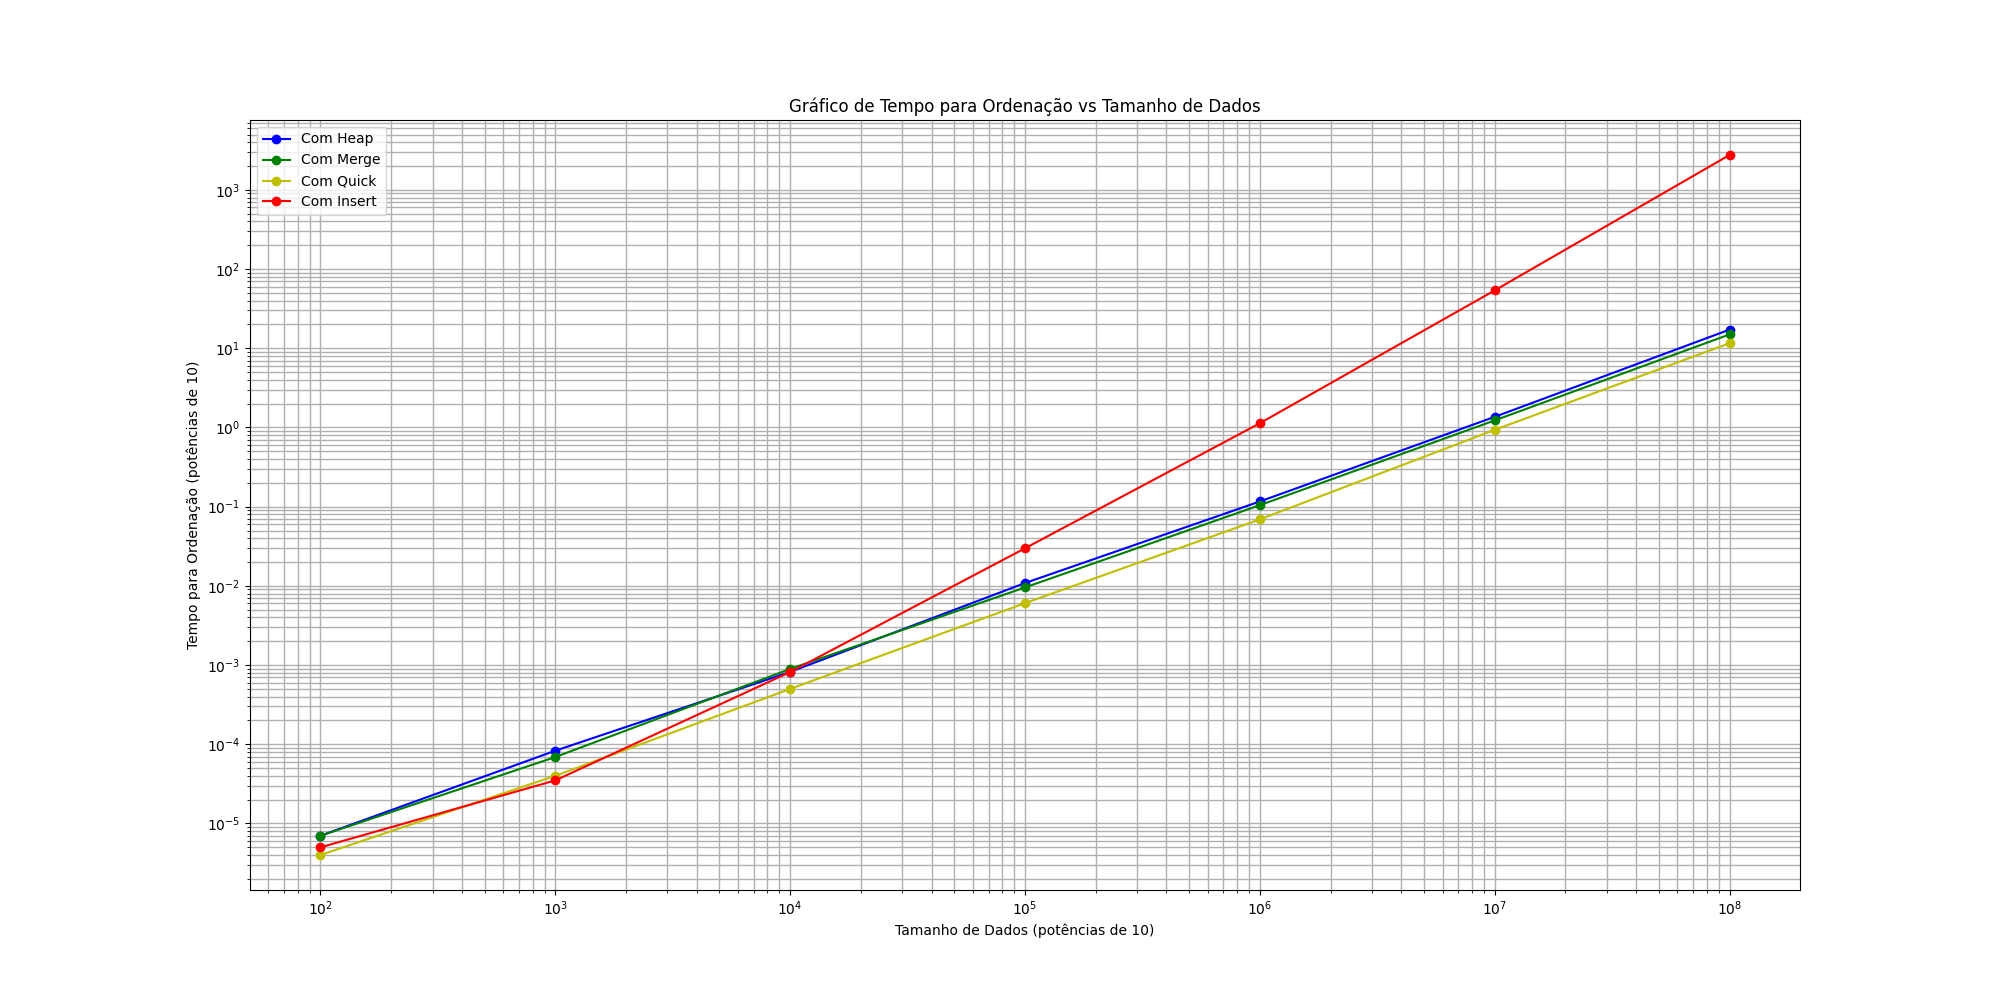
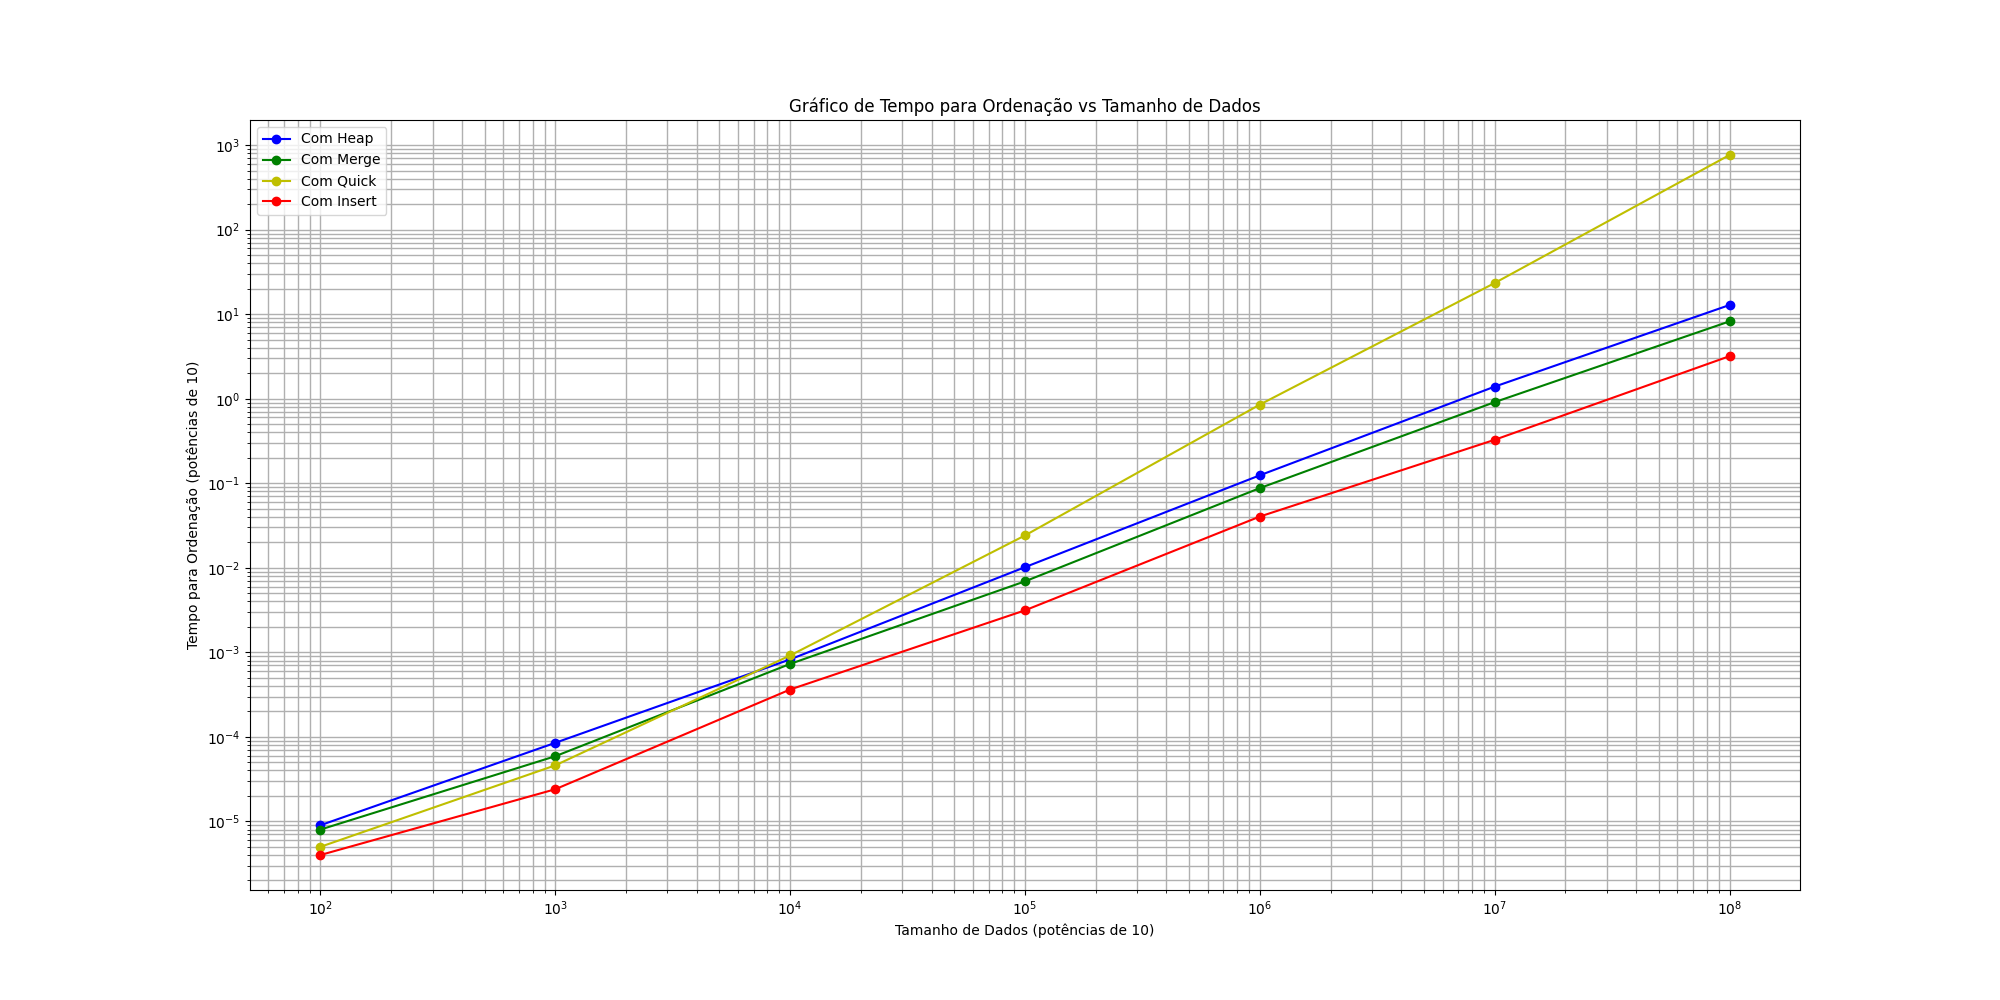
add ultimo antes de enviar

Changed region(s): [[0.093, 0.124, 0.899, 0.868]]

diff --git a/bucketMerge.c b/bucketMerge.c
@@ -3,62 +3,6 @@
 #include <math.h>
 #include "bucket.h"
 
-void merge_sort(int arr[], int left, int right);
-void merge(int arr[], int left, int mid, int right);
-
-void BucketSortMerge(int arr[], int n, int n_bucket, int interval) {
-    int** buckets = (int**)malloc(n_bucket * sizeof(int*));
-    int* bucket_sizes = (int*)malloc(n_bucket * sizeof(int));
-
-    int i, j;
-
-    for (i = 0; i < n_bucket; i++) {
-        buckets[i] = (int*)malloc(n * sizeof(int));
-        bucket_sizes[i] = 0;
-    }
-
-    /* Distribui os elementos nos baldes */
-    for (i = 0; i < n; i++) {
-        int pos = arr[i] / interval;
-        if (pos >= n_bucket) {
-            pos = n_bucket - 1;
-        }
-        buckets[pos][bucket_sizes[pos]] = arr[i];
-        bucket_sizes[pos]++;
-    }
-
-    /* Ordena cada balde usando Merge Sort */
-    for (i = 0; i < n_bucket; i++) {
-        if (bucket_sizes[i] > 1) {
-            merge_sort(buckets[i], 0, bucket_sizes[i] - 1);
-        }
-    }
-
-    /* Junta os baldes de volta no array original */
-    int k = 0;
-    for (i = 0; i < n_bucket; i++) {
-        for (j = 0; j < bucket_sizes[i]; j++) {
-            arr[k++] = buckets[i][j];
-        }
-        free(buckets[i]);
-    }
-
-    free(buckets);
-    free(bucket_sizes);
-}
-
-/* Implementação do Merge Sort */
-void merge_sort(int arr[], int left, int right) {
-    if (left < right) {
-        int mid = left + (right - left) / 2;
-
-        merge_sort(arr, left, mid);
-        merge_sort(arr, mid + 1, right);
-        merge(arr, left, mid, right);
-    }
-}
-
-/* Função de mesclagem para o Merge Sort */
 void merge(int arr[], int left, int mid, int right) {
     int n1 = mid - left + 1;
     int n2 = right - mid;
@@ -68,7 +12,6 @@ void merge(int arr[], int left, int mid, int right) {
 
     int i, j, k;
 
-    /* Copia os elementos para os arrays temporários L e R */
     for (i = 0; i < n1; i++) {
         L[i] = arr[left + i];
     }
@@ -76,7 +19,6 @@ void merge(int arr[], int left, int mid, int right) {
         R[j] = arr[mid + 1 + j];
     }
 
-    /* Mescla os arrays temporários de volta no array original */
     i = 0;
     j = 0;
     k = left;
@@ -91,14 +33,12 @@ void merge(int arr[], int left, int mid, int right) {
         k++;
     }
 
-    /* Copia os elementos restantes de L, se houver */
     while (i < n1) {
         arr[k] = L[i];
         i++;
         k++;
     }
 
-    /* Copia os elementos restantes de R, se houver */
     while (j < n2) {
         arr[k] = R[j];
         j++;
@@ -109,3 +49,50 @@ void merge(int arr[], int left, int mid, int right) {
     free(R);
 }
 
+void merge_sort(int arr[], int left, int right) {
+    if (left < right) {
+        int mid = left + (right - left) / 2;
+
+        merge_sort(arr, left, mid);
+        merge_sort(arr, mid + 1, right);
+        merge(arr, left, mid, right);
+    }
+}
+
+void BucketSortMerge(int arr[], int n, int n_bucket, int interval) {
+    int** buckets = (int**)malloc(n_bucket * sizeof(int*));
+    int* bucket_sizes = (int*)malloc(n_bucket * sizeof(int));
+
+    int i, j;
+
+    for (i = 0; i < n_bucket; i++) {
+        buckets[i] = (int*)malloc(n * sizeof(int));
+        bucket_sizes[i] = 0;
+    }
+
+    for (i = 0; i < n; i++) {
+        int pos = arr[i] / interval;
+        if (pos >= n_bucket) {
+            pos = n_bucket - 1;
+        }
+        buckets[pos][bucket_sizes[pos]] = arr[i];
+        bucket_sizes[pos]++;
+    }
+
+    for (i = 0; i < n_bucket; i++) {
+        if (bucket_sizes[i] > 1) {
+            merge_sort(buckets[i], 0, bucket_sizes[i] - 1);
+        }
+    }
+
+    int k = 0;
+    for (i = 0; i < n_bucket; i++) {
+        for (j = 0; j < bucket_sizes[i]; j++) {
+            arr[k++] = buckets[i][j];
+        }
+        free(buckets[i]);
+    }
+
+    free(buckets);
+    free(bucket_sizes);
+}

diff --git a/bucketHeap.c b/bucketHeap.c
@@ -2,11 +2,10 @@
 #include <stdlib.h>
 #include "bucket.h"
 
-/* Função para criar o heap máximo */
 void heapify(int arr[], int n, int i) {
-    int largest = i;          /* Inicializa o maior como raiz */
-    int left = 2 * i + 1;     /* Filho à esquerda */
-    int right = 2 * i + 2;    /* Filho à direita */
+    int largest = i;          
+    int left = 2 * i + 1;     
+    int right = 2 * i + 2;    
 
     if (left < n && arr[left] > arr[largest])
         largest = left;
@@ -16,27 +15,22 @@ void heapify(int arr[], int n, int i) {
 
     if (largest != i) {
         swap(&arr[i], &arr[largest]);
-        heapify(arr, n, largest);  /* Heapify a subárvore */
+        heapify(arr, n, largest); 
     }
 }
 
-/* Função principal do Heap Sort */
 void HeapSort(int arr[], int n) {
     int i;
-    /* Constrói o heap (reorganiza o array) */
     for (i = n / 2 - 1; i >= 0; i--)
         heapify(arr, n, i);
 
-    /* Extrai um a um os elementos do heap */
     for (i = n - 1; i >= 0; i--) {
-        swap(&arr[0], &arr[i]);    /* Move a raiz para o final */
-        heapify(arr, i, 0);        /* Chama heapify no heap reduzido */
+        swap(&arr[0], &arr[i]);    
+        heapify(arr, i, 0);        
     }
 }
 
-/* Função de Bucket Sort que usa Heap Sort */
 void BucketSortHeap(int arr[], int n, int n_bucket, int interval) {
-    /* Cria buckets */
     int **buckets = (int **)malloc(n_bucket * sizeof(int *));
     int *bucket_sizes = (int *)malloc(n_bucket * sizeof(int));
     int i, j = 0;
@@ -45,14 +39,12 @@ void BucketSortHeap(int arr[], int n, int n_bucket, int interval) {
         bucket_sizes[i] = 0;
     }
 
-    /* Distribui os elementos nos buckets */
     for (i = 0; i < n; i++) {
         int bucket_index = arr[i] / interval;
         if (bucket_index >= n_bucket) bucket_index = n_bucket - 1;
         buckets[bucket_index][bucket_sizes[bucket_index]++] = arr[i];
     }
 
-    /* Ordena cada bucket individualmente usando Heap Sort e concatena */
     int index = 0;
     for (i = 0; i < n_bucket; i++) {
         if (bucket_sizes[i] > 0) {
@@ -61,7 +53,7 @@ void BucketSortHeap(int arr[], int n, int n_bucket, int interval) {
                 arr[index++] = buckets[i][j];
             }
         }
-        free(buckets[i]);  /* Libera o bucket após uso */
+        free(buckets[i]); 
     }
 
     free(buckets);

diff --git a/bucketInsert.c b/bucketInsert.c
@@ -9,45 +9,6 @@ struct Node {
   struct Node *next;
 };
 
-void BucketSort(int arr[], int n, int nBucket, int interval);
-struct Node *InsertionSort(struct Node *list);
-void printBuckets(struct Node *list);
-
-void BucketSort(int arr[], int n, int nBucket, int interval) {
-  int i, j;
-  struct Node **buckets;
-
-  buckets = (struct Node **)malloc(sizeof(struct Node *) * nBucket);
-
-  for (i = 0; i < nBucket; ++i) {
-    buckets[i] = NULL;
-  }
-
-  for (i = 0; i < n; ++i) {
-    struct Node *current;
-    int pos = getBucketIndex(arr[i], interval);
-    current = (struct Node *)malloc(sizeof(struct Node));
-    current->data = arr[i];
-    current->next = buckets[pos];
-    buckets[pos] = current;
-  }
-
-  for (i = 0; i < nBucket; ++i) {
-    buckets[i] = InsertionSort(buckets[i]);
-  }
-
-  for (j = 0, i = 0; i < nBucket; ++i) {
-    struct Node *node;
-    node = buckets[i];
-    while (node) {
-      arr[j++] = node->data;
-      node = node->next;
-    }
-  }
-
-  return;
-}
-
 struct Node *InsertionSort(struct Node *list) {
   struct Node *k, *nodeList;
   if (list == 0 || list->next == 0) {
@@ -89,6 +50,43 @@ struct Node *InsertionSort(struct Node *list) {
   }
   return nodeList;
 }
+
+void BucketSort(int arr[], int n, int nBucket, int interval) {
+  int i, j;
+  struct Node **buckets;
+
+  buckets = (struct Node **)malloc(sizeof(struct Node *) * nBucket);
+
+  for (i = 0; i < nBucket; ++i) {
+    buckets[i] = NULL;
+  }
+
+  for (i = 0; i < n; ++i) {
+    struct Node *current;
+    int pos = getBucketIndex(arr[i], interval);
+    current = (struct Node *)malloc(sizeof(struct Node));
+    current->data = arr[i];
+    current->next = buckets[pos];
+    buckets[pos] = current;
+  }
+
+  for (i = 0; i < nBucket; ++i) {
+    buckets[i] = InsertionSort(buckets[i]);
+  }
+
+  for (j = 0, i = 0; i < nBucket; ++i) {
+    struct Node *node;
+    node = buckets[i];
+    while (node) {
+      arr[j++] = node->data;
+      node = node->next;
+    }
+  }
+
+  return;
+}
+
+
 
 
 

diff --git a/bucketQuick.c b/bucketQuick.c
@@ -26,8 +26,6 @@ void quick_sort(int arr[], int low, int high) {
     }
 }
 
-
-
 void BucketSortQuick(int arr[], int n, int n_bucket, int interval) {
     int** buckets = (int**)malloc(n_bucket * sizeof(int*));
     int* bucket_sizes = (int*)malloc(n_bucket * sizeof(int));
@@ -48,27 +46,9 @@ void BucketSortQuick(int arr[], int n, int n_bucket, int interval) {
         bucket_sizes[pos]++;
     }
 
-    /*for (i = 0; i < n_bucket; i++) {
-        printf("Bucket[%d]: ", i);
-        for (j = 0; j < bucket_sizes[i]; j++) {
-            printf("%d ", buckets[i][j]);
-        }
-        printf("\n");
-    }*/
-
     for (i = 0; i < n_bucket; i++) {
         quick_sort(buckets[i], 0, bucket_sizes[i] - 1);
     }
-
-    /*printf("-------------\n");
-    printf("Bucktets after sorting\n");
-    for (i = 0; i < n_bucket; i++) {
-        printf("Bucket[%d]: ", i);
-        for (j = 0; j < bucket_sizes[i]; j++) {
-            printf("%d ", buckets[i][j]);
-        }
-        printf("\n");
-    }*/
 
     int k = 0;
     for (i = 0; i < n_bucket; i++) {

diff --git a/grafico.py b/grafico.py
@@ -37,10 +37,10 @@ def main():
 
 
     plt.figure(figsize=(20, 10))
-    plt.plot(tamanhosDados, tempoHeap, marker='o', color='b', label='Com Heap')
-    plt.plot(tamanhosDados, tempoMerge, marker='o', color='g', label='Com Merge')
-    plt.plot(tamanhosDados, tempoQuick, marker='o', color='y', label='Com Quick')
-    plt.plot(tamanhosDados, tempoInsert, marker='o', color='r', label='Com Insert')
+    plt.plot(tamanhosDados, tempoHeapOp, marker='o', color='b', label='Com Heap')
+    plt.plot(tamanhosDados, tempoMergeOp, marker='o', color='g', label='Com Merge')
+    plt.plot(tamanhosDados, tempoQuickOp, marker='o', color='y', label='Com Quick')
+    plt.plot(tamanhosDados, tempoInsertOp, marker='o', color='r', label='Com Insert')
     plt.xscale('log')
     plt.yscale('log')
     plt.xlabel('Tamanho de Dados (potências de 10)')

diff --git a/bucket.c b/bucket.c
@@ -32,7 +32,6 @@ int VerificaOrdenado(int arr[], int tam){
     return 0;
 }
 
-/* Função para gerar o array a partir do arquivo */
 void geraArray(int *array, int NARRAY, char *fileName) {
     int n = 0; 
 
